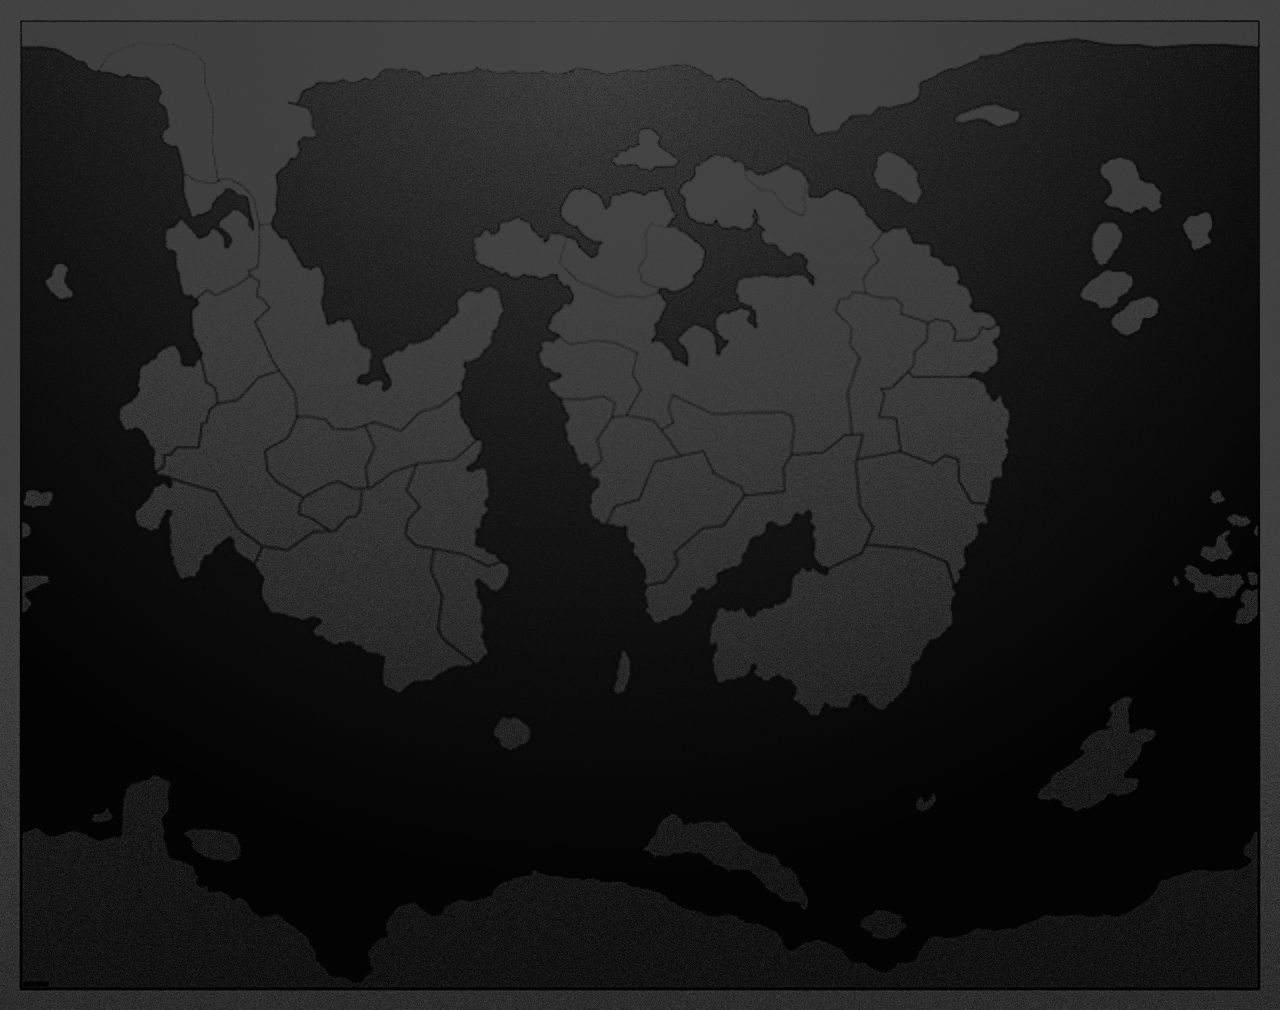
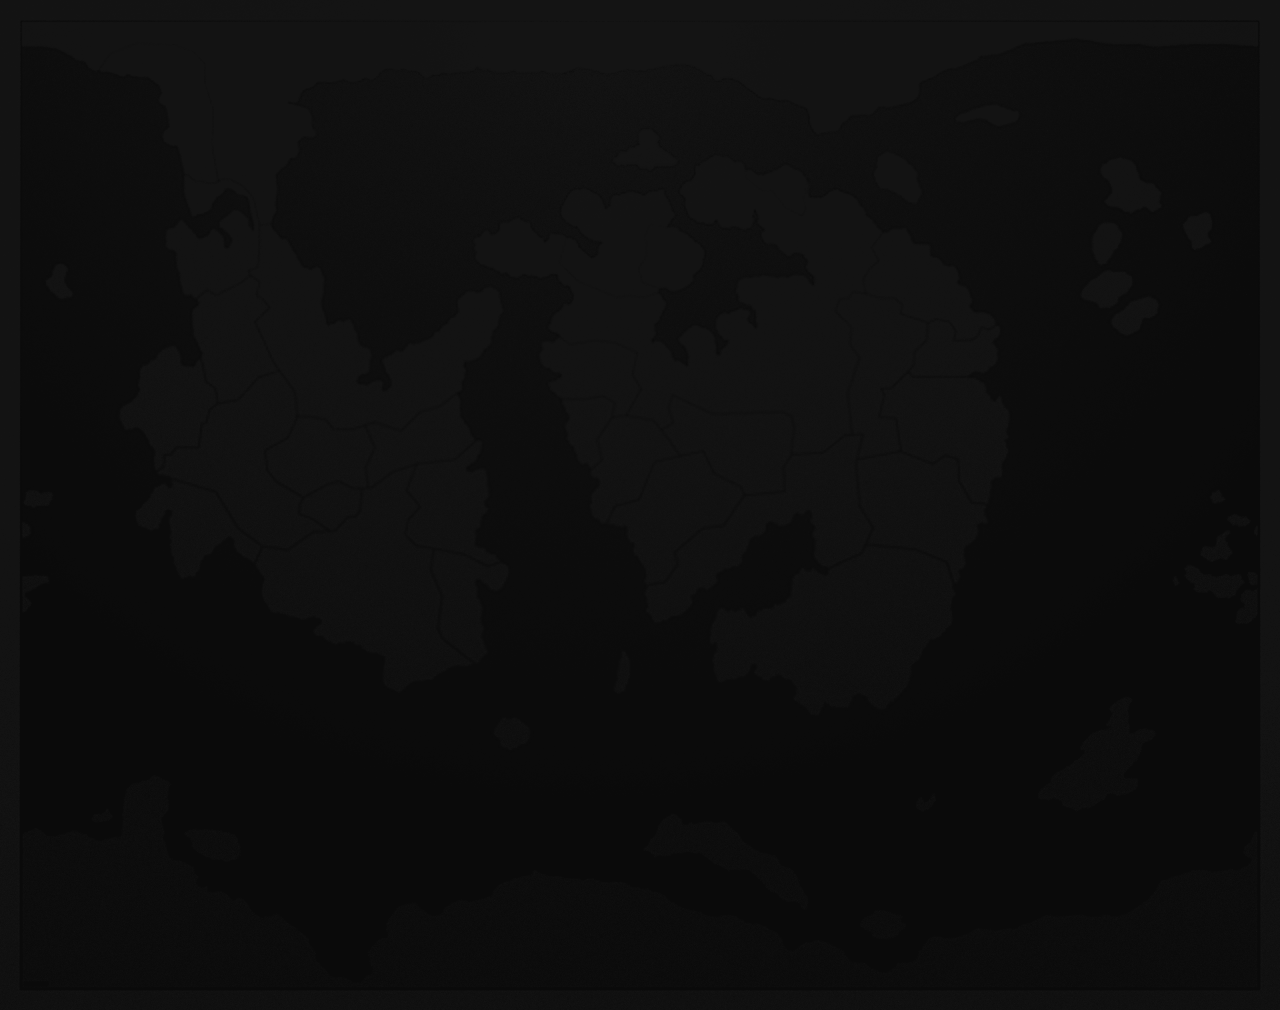
Ajuste

diff --git a/index-en.html b/index-en.html
@@ -8,7 +8,7 @@
   <link rel="stylesheet" href="https://cdnjs.cloudflare.com/ajax/libs/font-awesome/6.5.0/css/all.min.css">
   <style>
     body { font-family: 'Inter', system-ui, sans-serif; }
-    .hero-bg { background: linear-gradient(135deg, #1a1a2e 0%, #0f0f1e 100%); }
+    .hero-bg { background: linear-gradient(180deg, #0E1934 0%, #131313 100%); }
     .card-hover:hover { transform: translateY(-6px); transition: all 0.3s ease; }
     .media-container { border-radius: 16px; overflow: hidden; background: #111; }
     
@@ -22,7 +22,7 @@
     }
   </style>
 </head>
-<body class="bg-zinc-950 text-zinc-200 overflow-x-hidden" style="background-image: url('media/mmfondo.png'); background-size: cover; background-position: center; background-repeat: no-repeat; background-attachment: fixed;">
+<body class="bg-zinc-950 text-zinc-200 overflow-x-hidden" style="background-image: url('media/mmfondo.png'); background-size: cover; background-position: center; background-repeat: no-repeat; background-attachment: fixed; margin: 0; padding: 0">
   <div id="splash-screen" class="fixed inset-0 z-50 flex flex-col items-center justify-center bg-zinc-950/95 backdrop-blur-sm transition-opacity duration-700 ease-in-out">
     <div class="text-center px-6 max-w-2xl animate-fade-in-up">
       <h2 class="text-4xl md:text-5xl font-bold mb-6 text-white">Juan Merlo</h2>
